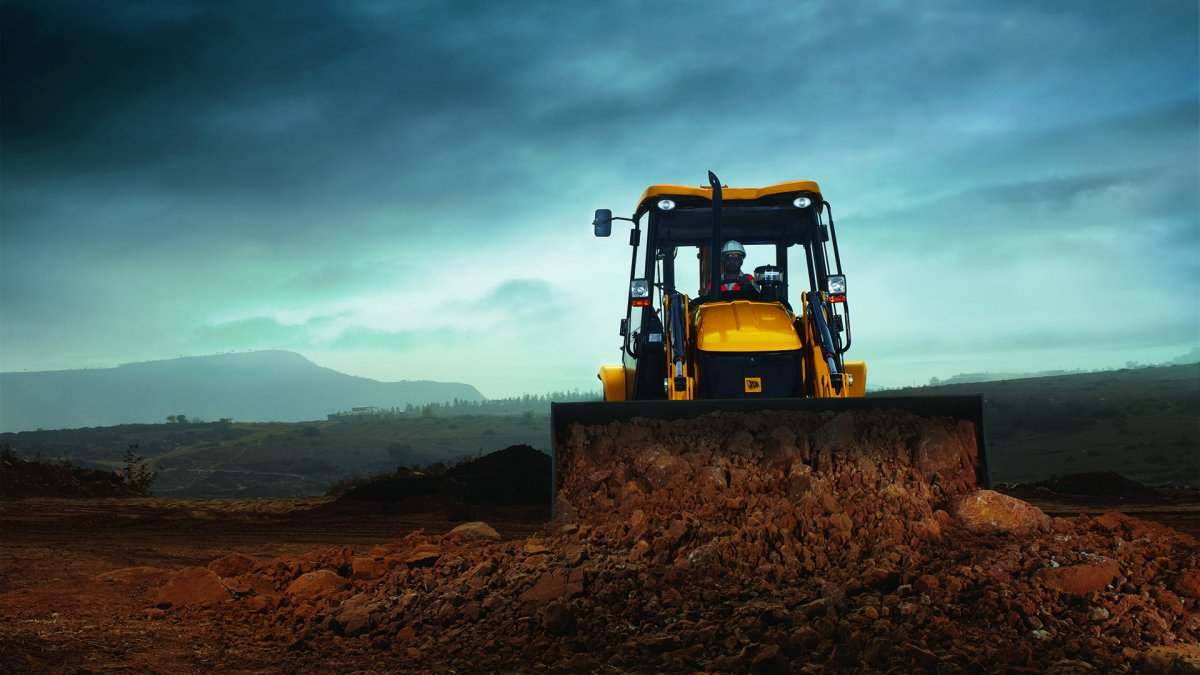
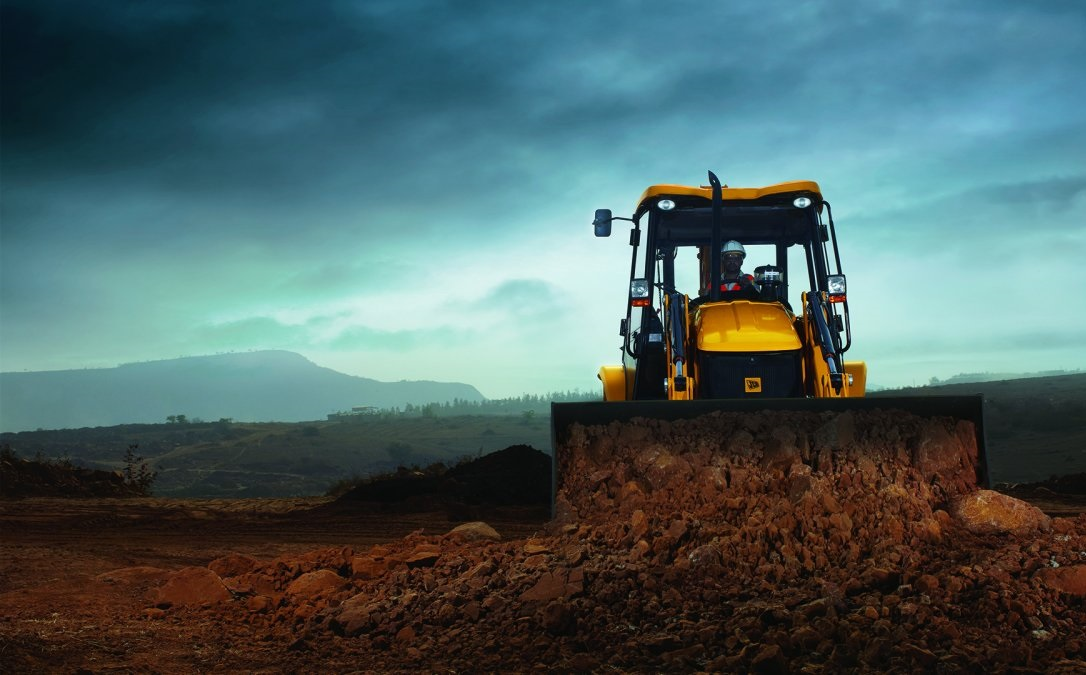
Ссылки стали быть в списке

diff --git a/styles/styles.css b/styles/styles.css
@@ -9,22 +9,39 @@
 .mainWrapper{
     width: 100%;
     height: 100%;
-    background: linear-gradient(to top, rgba(255, 255, 255, 0.0), rgba(0, 0, 0, 0.7)), url(../images/mainBackground.jpeg);
+    background: linear-gradient(to top, rgba(255, 255, 255, 0.0), rgba(0, 0, 1, 0.7)), url(../images/mainBackground.jpeg);
     background-repeat: no-repeat;
-    background-size: cover;
+    background-size: 100% 100%;
 }
 .header{
     width: 100%;
     height: 13.65%;
+}
+.header ul{
     display: flex;
-    justify-content: space-around;
-    align-items: center;
+    margin-left: 6.25%;
+    /* justify-content: space-around;
+    align-items: center; */
+    position: relative;
+    list-style-type: none;
+    top: 50%;
+}
+.header ul li{
+    margin: 0 10%;
+}
+.header ul li:nth-child(1){
+    margin-left: 0;
+}
+.header ul li:last-child{
+    margin-right: 0;
 }
 .headerLink{
     color:white;
     text-decoration: none;
     font-family: 'Montserrat', sans-serif;
     font-size: 36;
+    position: relative;
+    right: 0px;
 }
 .aboutWrapper{
     width: 100%;

diff --git a/index.html b/index.html
@@ -12,10 +12,12 @@
     <div class="wrapper">
         <div class="mainWrapper">
             <div class="header">
-                <a href="#" class="headerLink">Главная</a>
-                <a href="#" class="headerLink">Услуги</a>
-                <a href="#" class="headerLink">Информация</a>
-                <a href="#" class="headerLink">О нас</a>
+                <ul>
+                    <li><a href="" class="headerLink">Главная</a></li>
+                    <li><a href="" class="headerLink">Услуги</a></li>
+                    <li><a href="" class="headerLink">Информация</a></li>
+                    <li><a href="" class="headerLink">Контакты</a></li>
+                </ul>
             </div>
             <div class="infoBlock">
                 <a href="" class="orderCall"></a> <!-- TODO: сделать плавный переход на футер-->
